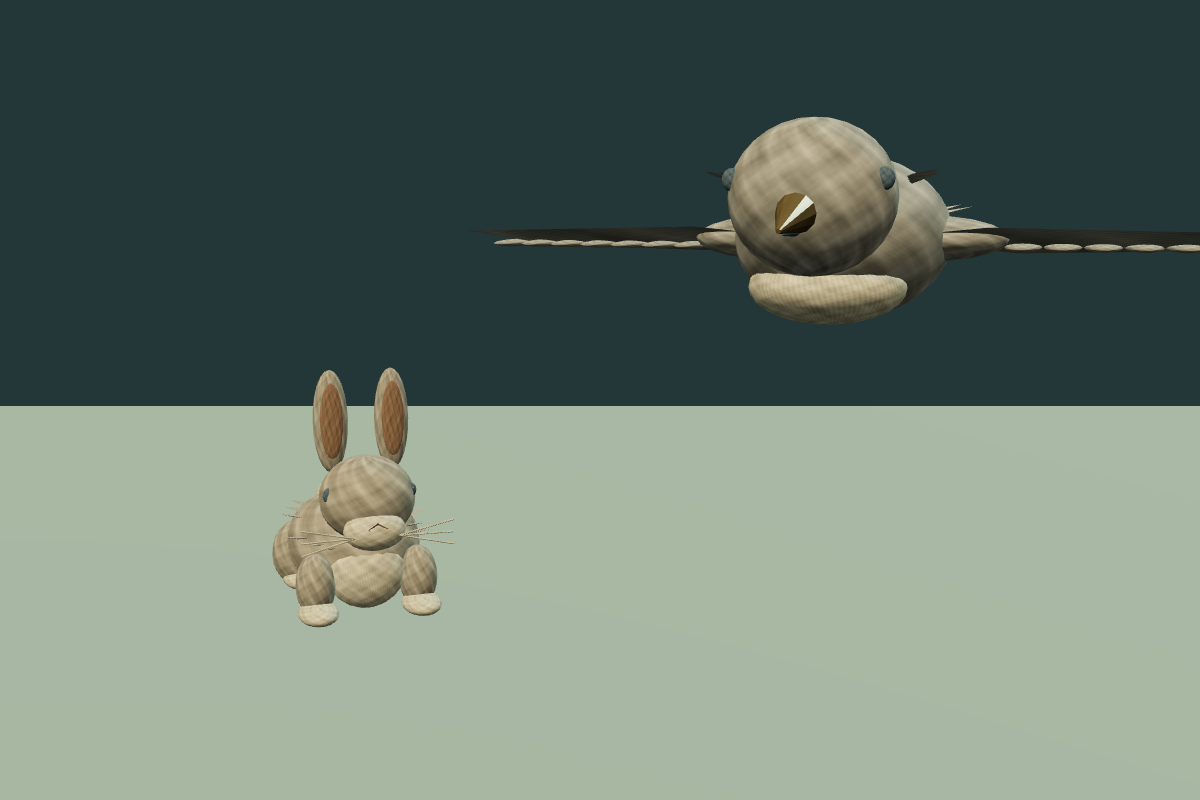
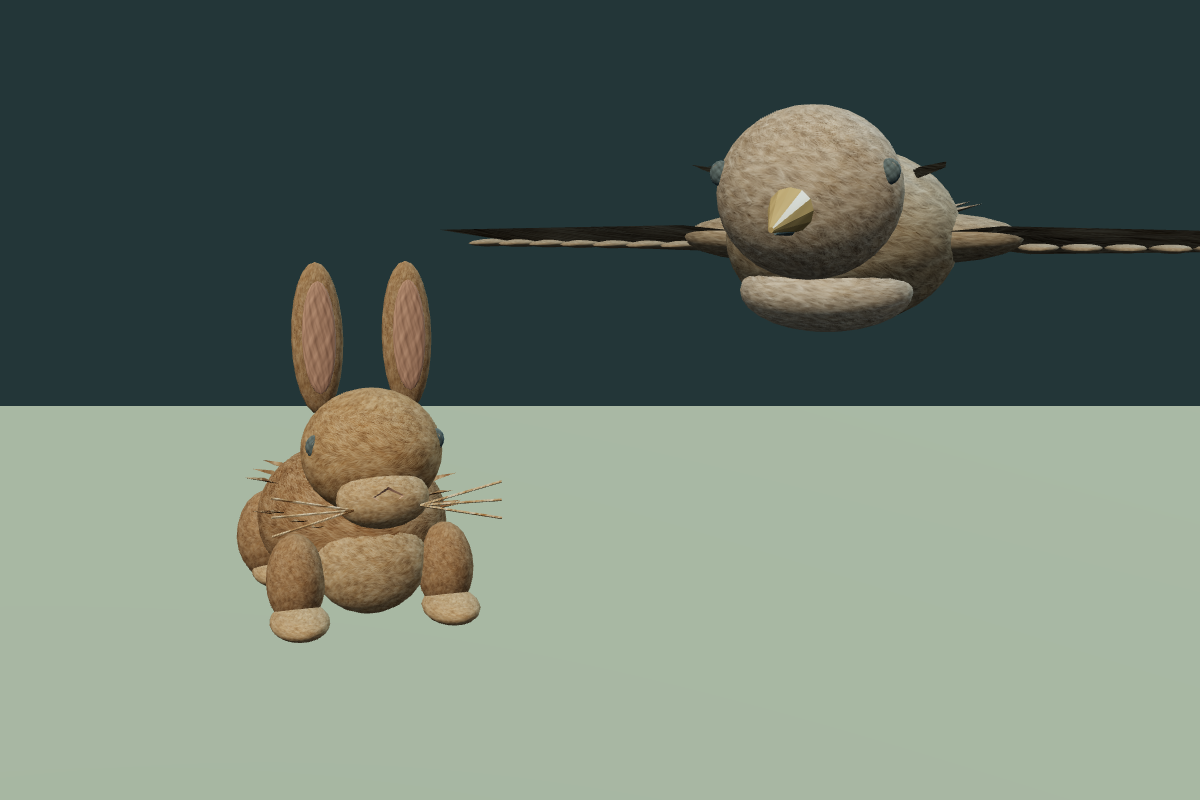
Vary wildlife coats and refine coastal visuals

Changed region(s): [[0.185, 0.3125, 0.4317, 0.8125], [0.37, 0.125, 1.0, 0.4062]]

diff --git a/PopulateTheRebeginning.html b/PopulateTheRebeginning.html
@@ -2192,10 +2192,76 @@ class Particle {
 }
 
 
+// Coastal daylight and warm earth tones from the title art, grouped as coherent
+// coats rather than unrelated random colors on each body part.
+const RABBIT_COATS=[
+    {name:'woodland',back:0x90765c,face:0xb69b76,legs:0x9e8267,ears:0xa38b70,belly:0xd9c9aa,tail:0xe8dfcd,inner:0xb98580},
+    {name:'sandy',back:0xc7ad7d,face:0xd8c49a,legs:0xbda377,ears:0xcbb58e,belly:0xf1e4c8,tail:0xf4ead8,inner:0xc9958c},
+    {name:'chestnut',back:0xa66c48,face:0xc18b61,legs:0x956044,ears:0xae7959,belly:0xdec6a9,tail:0xeee0ce,inner:0xb77b75},
+    {name:'slate',back:0x818885,face:0xa2a9a3,legs:0x737c79,ears:0x919995,belly:0xd7d8ce,tail:0xe8e7dd,inner:0xaa8e91},
+    {name:'cream',back:0xc9c5ad,face:0xe0d9bd,legs:0xb5af99,ears:0xd0c6ad,belly:0xf4eedc,tail:0xf6f0e3,inner:0xc99e99}
+];
+const BIRD_PLUMAGES=[
+    {name:'sea-gull',back:0x9aaeb4,head:0xe3e5de,wing:0x8399a4,tail:0x687d88,belly:0xf1eee1,beak:0xd6a45c},
+    {name:'island-tern',back:0x627d88,head:0x899aa0,wing:0x536d7a,tail:0x435963,belly:0xe0e6e1,beak:0xb89a70},
+    {name:'kestrel',back:0xae7952,head:0xc99a70,wing:0x8c654f,tail:0x775c4b,belly:0xe5d2b4,beak:0xc8a06a},
+    {name:'sandpiper',back:0xb2a07d,head:0xcbbaa0,wing:0x99896e,tail:0x786f62,belly:0xece2cb,beak:0xb69d74},
+    {name:'coastal-swallow',back:0x668c91,head:0x86a4a3,wing:0x597b83,tail:0x425e65,belly:0xd8e0d8,beak:0xbba17d}
+];
+function colorWildlifeParts(group,kind,palette,tone) {
+    const materials=new Map();
+    group.traverse(node=>{
+        if(!node.isMesh||!node.userData.blenderAsset)return;
+        const part=node.name.split(' ')[1]?.split('/').pop();
+        const surface=node.material.name.split('/')[1];
+        let color;
+        if(kind==='rabbit') {
+            if(surface==='fur')color=/^ear/.test(part)?palette.ears:/Leg/.test(part)?palette.legs:part==='head'?palette.face:palette.back;
+            else if(surface==='ivory')color=part==='tail'?palette.tail:palette.belly;
+            else if(surface==='leather')color=palette.inner;
+        } else {
+            if(surface==='feather')color=/^wing/.test(part)?palette.wing:part==='tail'?palette.tail:part==='head'?palette.head:palette.back;
+            else if(surface==='ivory')color=palette.belly;
+            else if(surface==='bronze')color=palette.beak;
+        }
+        if(color===undefined)return;
+        const key=surface+'/'+color;
+        if(!materials.has(key)) {
+            const material=node.material.clone();
+            material.color.setHex(color).offsetHSL(0,0,tone);
+            material.roughness=surface==='bronze'?.62:surface==='feather'?.88:.96;
+            material.metalness=0;
+            if(surface==='ivory') {
+                const fibers=kind==='rabbit'?'fur':'feather';
+                material.map=Art.blender.texture(fibers,'map');
+                material.normalMap=Art.blender.texture(fibers,'normal');
+                material.roughnessMap=Art.blender.texture(fibers,'roughness');
+            }
+            materials.set(key,material);
+        }
+        node.material=materials.get(key);
+    });
+    group.userData.wildlifeMaterials=[...(group.userData.wildlifeMaterials||[]),...materials.values()];
+    group.userData.coatName=palette.name;
+}
+
 const CritterManager = {
     bunnies: [],
     birds: [],
     refillTimer: 0,
+    rabbitPaletteBag: [],
+    birdPaletteBag: [],
+    nextPalette: function(kind) {
+        const bag=kind==='rabbit'?this.rabbitPaletteBag:this.birdPaletteBag;
+        if(!bag.length) {
+            bag.push(...(kind==='rabbit'?RABBIT_COATS:BIRD_PLUMAGES));
+            for(let i=bag.length-1;i>0;i--) {
+                const j=Math.floor(Math.random()*(i+1));
+                [bag[i],bag[j]]=[bag[j],bag[i]];
+            }
+        }
+        return bag.pop();
+    },
     focus: function() {
         return state.cameraLookAt || state.shaman?.mesh.position || {x:0,z:0};
     },
@@ -2208,7 +2274,8 @@ const CritterManager = {
     spawnBunny: function(randomPos=false) {
         const group = new THREE.Group();
         group.name='Wild rabbit';group.userData.wildlife='rabbit';
-        const color = [0xb1987c,0xd0bda0,0xa9a49a,0xd4cbc0][Math.floor(Math.random()*4)];
+        const coat=this.nextPalette('rabbit');
+        const tone=(Math.random()-.5)*.06,color=coat.back;
         const mat = new THREE.MeshStandardMaterial({color: color, roughness: 0.88,
             map:Art.blender.texture('fur','map'),normalMap:Art.blender.texture('fur','normal'),
             roughnessMap:Art.blender.texture('fur','roughness'),emissive:new THREE.Color(color).multiplyScalar(.08),emissiveIntensity:.18});
@@ -2288,15 +2355,10 @@ const CritterManager = {
             const tailJoint=new THREE.Group();tailJoint.position.set(0,.25,-.36);
             bunnyRig.add(tailJoint);Art.blender.attach(tailJoint,'critter/bunny/tail');
             bunnyRig.userData.joints={head:headJoint,ears,frontLegs,hindLegs,tail:tailJoint};
-            let coat=null;
-            group.traverse(node=>{
-                if(node.isMesh&&node.material?.name==='Blender/fur') {
-                    if(!coat){coat=node.material.clone();coat.color.setHex(color);coat.emissive.setHex(color).multiplyScalar(.08);coat.emissiveIntensity=.18;}
-                    node.material=coat;
-                }
-            });
-            bunnyRig.userData.coat=coat;
+            colorWildlifeParts(group,'rabbit',coat,tone);
         }
+        group.userData.coatName=coat.name;
+        group.userData.wildlifeMaterials=[...(group.userData.wildlifeMaterials||[]),mat];
 
 
         const focus=this.focus(),radius=CONFIG.CRITTERS.BUNNY_SPAWN_RANGE*.5;
@@ -2307,7 +2369,7 @@ const CritterManager = {
             const slope=Math.abs(getHeight(x+.5,z)-getHeight(x-.5,z))+Math.abs(getHeight(x,z+.5)-getHeight(x,z-.5));
             if(h>VISUAL_WATER_LEVEL+.35&&h<18&&slope<1.45){found=true;break;}
         }
-        if(!found){mat.dispose();return false;}
+        if(!found){this.disposeAnimal(group);return false;}
         group.position.set(x,h,z);
 
         state.scene.add(group);
@@ -2331,7 +2393,8 @@ const CritterManager = {
     spawnBird: function(randomPos=false) {
         const group = new THREE.Group();
         group.name='Wild bird';group.userData.wildlife='bird';
-        const color = [0xa69980,0xc2b28f,0x8ea5ad,0xb58f73][Math.floor(Math.random()*4)];
+        const plumage=this.nextPalette('bird');
+        const tone=(Math.random()-.5)*.06,color=plumage.back;
         const mat = new THREE.MeshStandardMaterial({color: color, side: THREE.DoubleSide, roughness: 0.84,
             map:Art.blender.texture('feather','map'),normalMap:Art.blender.texture('feather','normal'),
             roughnessMap:Art.blender.texture('feather','roughness'),emissive:new THREE.Color(color).multiplyScalar(.07),emissiveIntensity:.16});
@@ -2354,7 +2417,7 @@ const CritterManager = {
         // Beak
         const beakGeo = new THREE.ConeGeometry(size * 0.15, size * 0.4, 4);
         beakGeo.rotateX(Math.PI / 2);
-        const beakMat = new THREE.MeshStandardMaterial({color: COLORS.beak, roughness: 0.4});
+        const beakMat = new THREE.MeshStandardMaterial({color: plumage.beak, roughness: 0.68});
         const beak = new THREE.Mesh(beakGeo, beakMat);
         beak.position.set(0, size * 0.2, size * 1.1);
         group.add(beak);
@@ -2410,15 +2473,10 @@ const CritterManager = {
             const headDetail=new THREE.Group();headDetail.scale.setScalar(size/0.68);
             headJoint.add(headDetail);Art.blender.attach(headDetail,'critter/bird/head');
             tailJoint=tailDetail;
-            let plumage=null;
-            group.traverse(node=>{
-                if(node.isMesh&&node.material?.name==='Blender/feather') {
-                    if(!plumage){plumage=node.material.clone();plumage.color.setHex(color);plumage.emissive.setHex(color).multiplyScalar(.07);plumage.emissiveIntensity=.16;}
-                    node.material=plumage;
-                }
-            });
-            group.userData.plumage=plumage;
+            colorWildlifeParts(group,'bird',plumage,tone);
         }
+        group.userData.coatName=plumage.name;
+        group.userData.wildlifeMaterials=[...(group.userData.wildlifeMaterials||[]),mat,beakMat];
 
         const focus=this.focus(),radius=CONFIG.CRITTERS.BIRD_SPAWN_RANGE*.5;
         const spawnAngle=Math.random()*Math.PI*2;
@@ -2456,6 +2514,11 @@ const CritterManager = {
             flapMix:1
         });
         return true;
+    },
+    disposeAnimal: function(group) {
+        state.scene.remove(group);
+        group.traverse(node=>{if(node.isMesh&&!node.userData.blenderAsset)node.geometry.dispose();});
+        for(const material of group.userData.wildlifeMaterials||[])material.dispose();
     },
     update: function(dt) {
         // Update Bunnies
@@ -2510,8 +2573,7 @@ const CritterManager = {
 
                 // If bunny hops into deep water, respawn it
                 if(t === 1 && h < VISUAL_WATER_LEVEL - 1) {
-                     state.scene.remove(b.mesh);
-                     b.rig?.userData.coat?.dispose();
+                     this.disposeAnimal(b.mesh);
                      this.bunnies.splice(i, 1);
                      this.spawnBunny(true);
                      continue;
@@ -2542,8 +2604,7 @@ const CritterManager = {
             // Periodically check if far out of bounds and respawn
             const bunnyFocus=this.focus();
             if(Math.hypot(b.mesh.position.x-bunnyFocus.x,b.mesh.position.z-bunnyFocus.z) > CONFIG.CRITTERS.BUNNY_RESPAWN_DIST) {
-                 state.scene.remove(b.mesh);
-                 b.rig?.userData.coat?.dispose();
+                 this.disposeAnimal(b.mesh);
                  this.bunnies.splice(i, 1);
                  this.spawnBunny(true);
             }
@@ -2603,8 +2664,7 @@ const CritterManager = {
             // Respawn if far out of bounds
             const birdFocus=this.focus();
             if(Math.hypot(b.mesh.position.x-birdFocus.x,b.mesh.position.z-birdFocus.z) > CONFIG.CRITTERS.BIRD_RESPAWN_DIST) {
-                 state.scene.remove(b.mesh);
-                 b.mesh.userData.plumage?.dispose();
+                 this.disposeAnimal(b.mesh);
                  this.birds.splice(i, 1);
                  this.spawnBird();
             }
@@ -2936,8 +2996,10 @@ function initTerrainResources() {
         uniform float time;
         uniform float waveStrength;
         attribute float foam;
+        attribute float depth;
         varying vec2 vUv;
         varying float vFoam;
+        varying float vDepth;
         varying vec2 vWorldXZ;
         varying vec3 vWorldPosition;
         varying vec3 vWaveNormal;
@@ -2945,6 +3007,7 @@ function initTerrainResources() {
         void main() {
             vUv = uv;
             vFoam = foam;
+            vDepth = depth;
             vec4 worldPosition = modelMatrix * vec4(position, 1.0);
             vWorldXZ = worldPosition.xz;
             vec3 pos = position;
@@ -2973,6 +3036,7 @@ function initTerrainResources() {
         uniform float time;
         varying vec2 vUv;
         varying float vFoam;
+        varying float vDepth;
         varying vec2 vWorldXZ;
         varying vec3 vWorldPosition;
         varying vec3 vWaveNormal;
@@ -2988,17 +3052,18 @@ function initTerrainResources() {
             vec3 normal=normalize(vWaveNormal+vec3(detail*.035,0.0,swell*.025));
             float fresnel=pow(1.0-max(dot(viewDir,normal),0.0),3.2);
             vec3 reflected=mix(skyColor,vec3(0.82,0.91,1.0),pow(max(dot(reflect(-viewDir,normal),normalize(sunDirection)),0.0),64.0));
-            vec3 baseColor = mix(deep,lagoon,clamp(vFoam * 0.45 + swell * 0.08,0.0,0.7));
+            float shallows=1.0-smoothstep(0.4,9.0,vDepth);
+            vec3 baseColor = mix(deep,lagoon,clamp(shallows * 0.62 + vFoam * 0.12 + swell * 0.06,0.0,0.76));
             baseColor += vec3(0.016,0.047,0.056) * detail;
             baseColor=mix(baseColor,reflected,.12+fresnel*.58);
             float f = vFoam;
             float ripples = sin(vWorldXZ.x * 2.4 + time * 1.5) * cos(vWorldXZ.y * 2.1 - time * 1.2) * 0.5 + 0.5;
             float noise=waterNoise(vWorldXZ*.72+vec2(time*.16,-time*.11));
             float breakers=sin(vWorldXZ.x*.53+vWorldXZ.y*.29-time*2.3+noise*2.8)*.5+.5;
-            float shoreFoam=smoothstep(.16,.78,f*(.78+.34*breakers)+noise*.18*f);
+            float shoreFoam=smoothstep(.24,.86,f*(.74+.32*breakers)+noise*.15*f);
             float crestFoam=smoothstep(.9,.985,breakers)*smoothstep(.76,1.02,vCrest+noise*.08);
             float foamAmount=clamp(shoreFoam+crestFoam*.14,0.0,1.0);
-            vec3 finalColor = mix(baseColor, vec3(0.90, 0.98, 0.97), foamAmount * 0.9);
+            vec3 finalColor = mix(baseColor, vec3(0.90, 0.98, 0.97), foamAmount * 0.72);
             float glint = pow(max(dot(reflect(-normalize(sunDirection),normal),viewDir),0.0),72.0)*1.25+
                 pow(max(0.0, ripples * (0.55 + swell * 0.45)), 12.0) * 0.07;
             finalColor += vec3(glint);
@@ -3198,6 +3263,7 @@ function updateChunkWater(wMesh, cx, cz) {
     const geo = wMesh.geometry;
     const pos = geo.attributes.position;
     const foamAttr = geo.attributes.foam;
+    const depthAttr = geo.attributes.depth;
     const offX = cx * CHUNK_SIZE;
     const offZ = cz * CHUNK_SIZE;
 
@@ -3205,20 +3271,22 @@ function updateChunkWater(wMesh, cx, cz) {
         const wx = pos.getX(i) + offX;
         const wz = pos.getZ(i) + offZ;
         const h = getHeight(wx, wz);
+        depthAttr.setX(i,Math.max(0,VISUAL_WATER_LEVEL-h));
 
-        // We want foam at both logical (WATER_LEVEL) and visual (VISUAL_WATER_LEVEL) shorelines
+        // A narrow, broken surf line leaves the shallow turquoise water visible.
         const d1 = Math.abs(h - VISUAL_WATER_LEVEL);
         const d2 = Math.abs(h - WATER_LEVEL);
         const dist = Math.min(d1, d2);
 
         let val = 0;
-        if (dist < 2.0) {
-            val = 1.0 - dist / 2.0;
-            val = Math.pow(val, 0.5); // Boost intensity
+        if (dist < 1.2) {
+            val = 1.0 - dist / 1.2;
+            val = Math.pow(val, 0.9);
         }
         foamAttr.setX(i, val);
     }
     foamAttr.needsUpdate = true;
+    depthAttr.needsUpdate = true;
 }
 
 function updateChunkPhysics(cx, cz, geometry = null) {
@@ -3652,6 +3720,7 @@ function createChunk(cx, cz) {
     wGeo.rotateX(-Math.PI/2); // Rotate geometry once
     const foam = new Float32Array(wGeo.attributes.position.count);
     wGeo.setAttribute('foam', new THREE.BufferAttribute(foam, 1));
+    wGeo.setAttribute('depth',new THREE.BufferAttribute(new Float32Array(foam.length),1));
     const wMesh = new THREE.Mesh(wGeo, chunkWaterMat);
     wMesh.position.set(offX, VISUAL_WATER_LEVEL, offZ);
     updateChunkWater(wMesh, cx, cz);

diff --git a/art/blender-pack.js b/art/blender-pack.js
@@ -31,7 +31,9 @@ export function createBlenderPack(T) {
         const key=kind+'/'+type;
         if(!surfaces.has(key)) {
             const url=type==='map'
-                ? crafted.has(kind) ? `./blender/${kind}-albedo.png`
+                ? kind==='fur' ? './blender/fur-albedo-v2.png'
+                    : kind==='feather' ? './blender/feather-plumage-albedo.png'
+                    : crafted.has(kind) ? `./blender/${kind}-albedo.png`
                     : kind==='cloth' ? './character-cloth.png'
                     : kind==='skin' ? './character-skin-v2.png' : `./materials/${kind}.png`
                 : `./blender/${kind}-${type}.png`;
